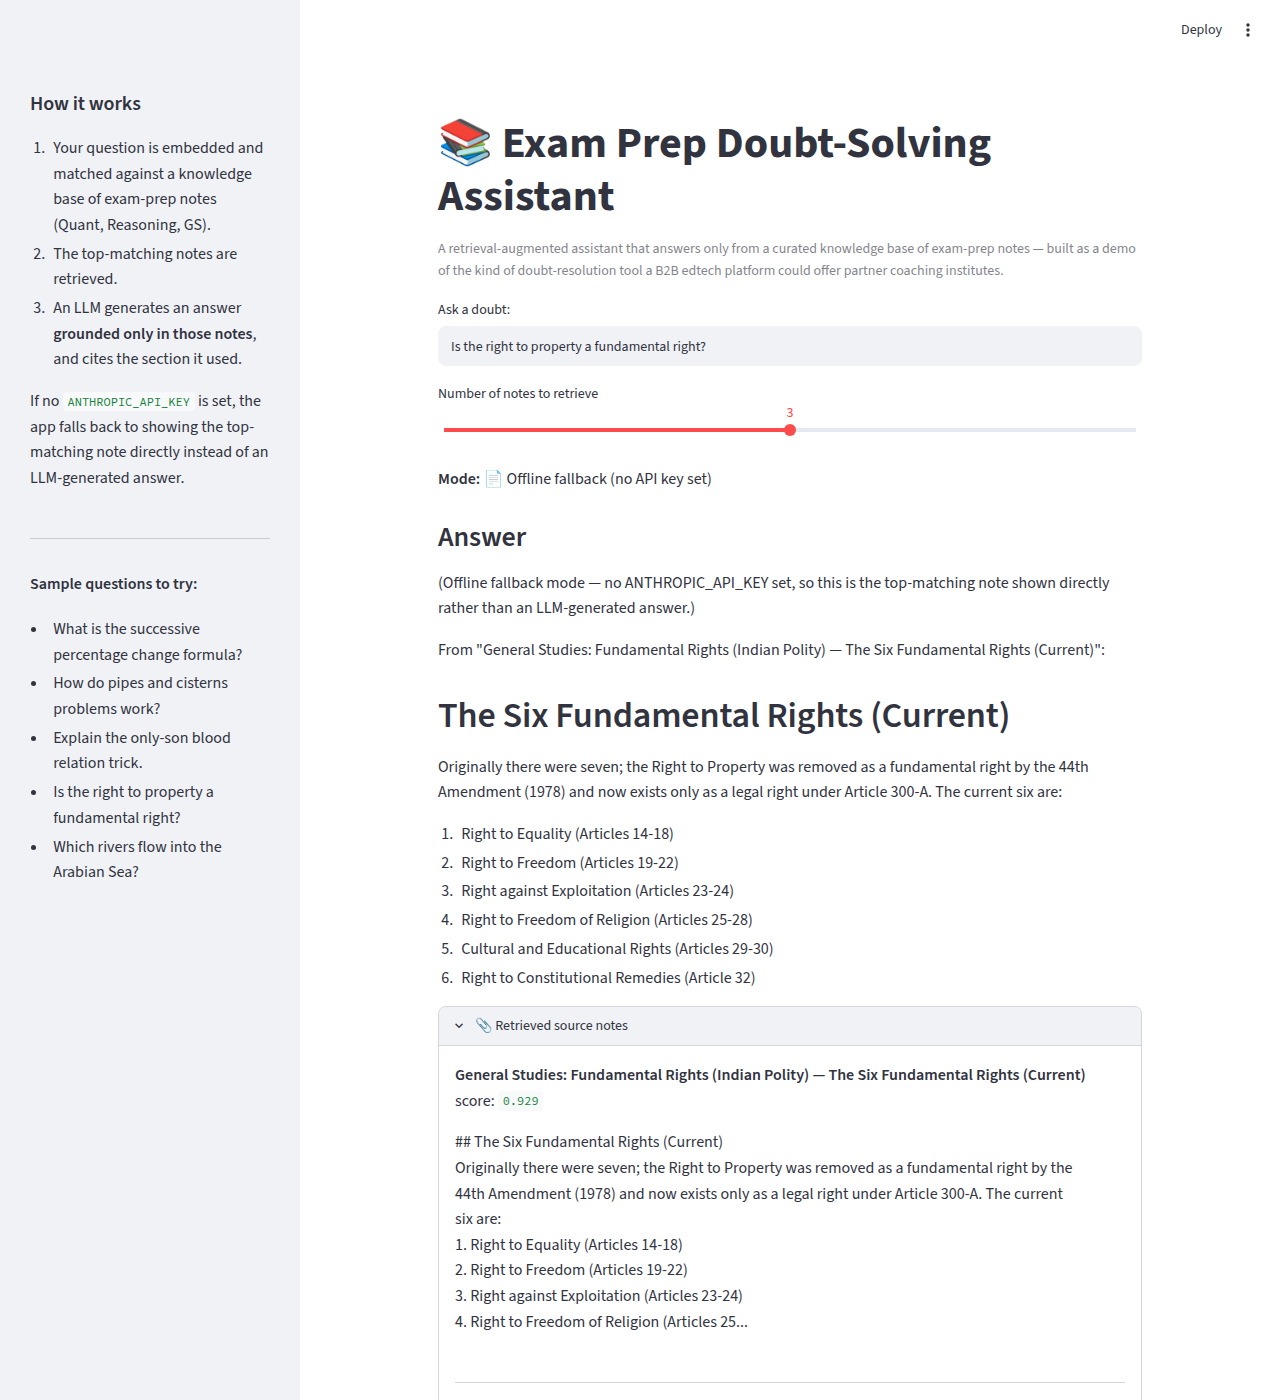
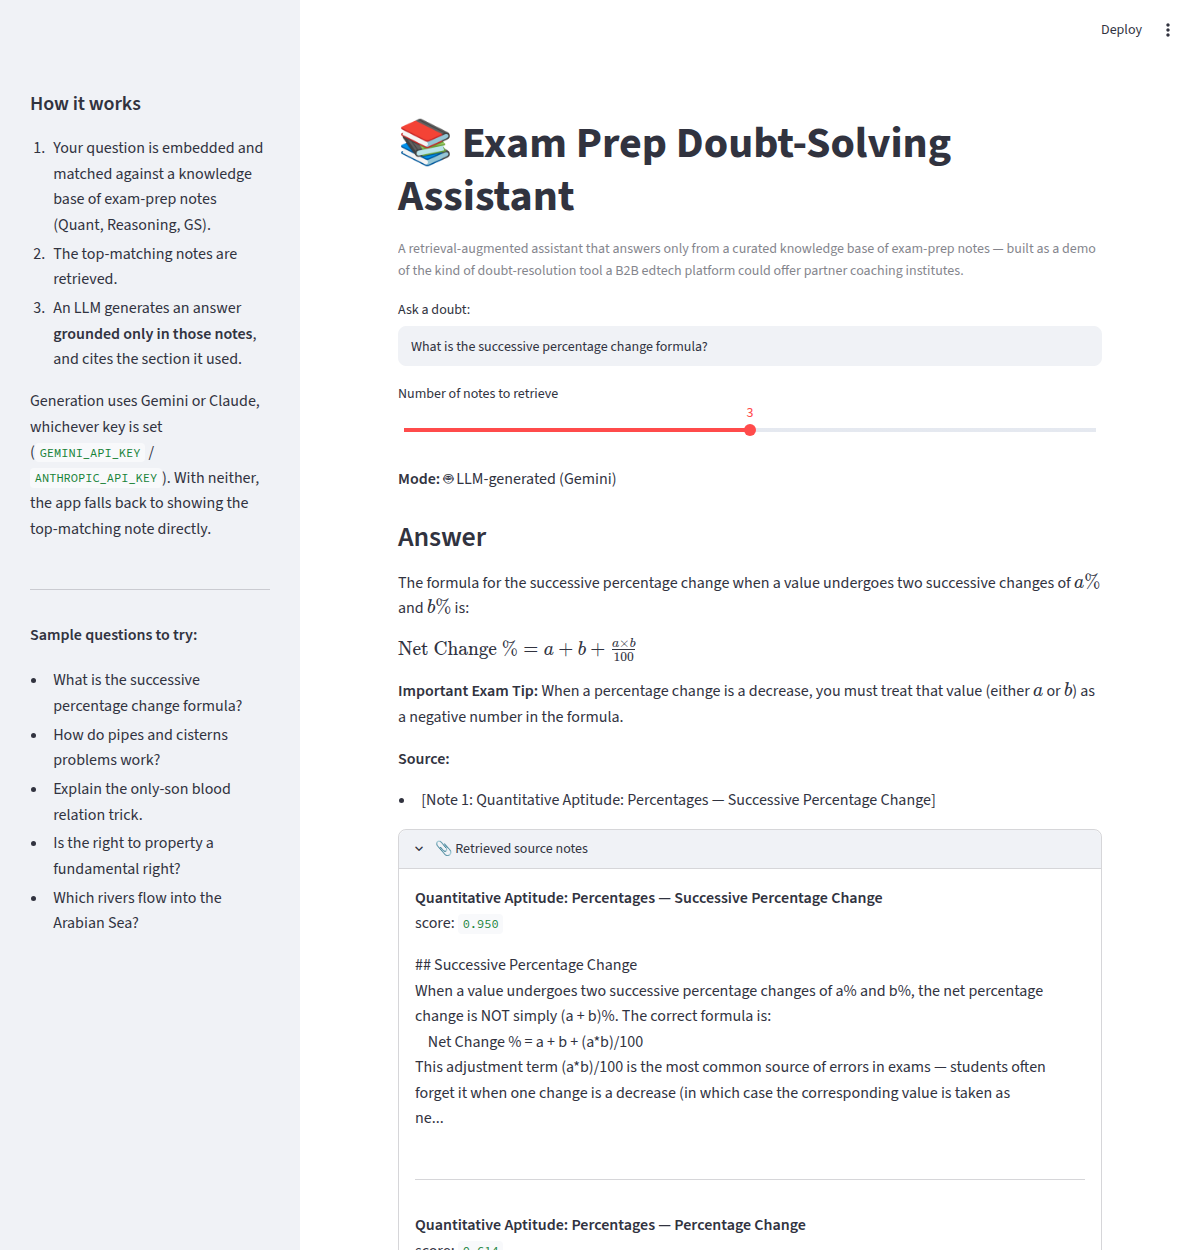
Fix truncated Gemini answers and pick a model that stays up
First run against a real key exposed two problems that no amount of
key-less testing would have found.

Answers were cut off mid-sentence. Gemini 3.x reasons before it writes and
those thinking tokens are drawn from max_output_tokens, so a budget sized for
the visible answer gets spent thinking. Measured on this workload: 434 tokens
of thinking against roughly 265 tokens of actual answer, so the old limit of
500 left about 66 for the reply. The budget is now 2048 and overridable, and
a response that still stops at the limit says so rather than presenting half
a sentence as a whole one.

The default model was unreliable. Over 5 calls each, gemini-3.8-flash
returned 503 UNAVAILABLE twice (3/5, avg 3.6s) while gemini-3.5-flash and
gemini-3.6-flash both went 5/5 (avg 5.6s and 5.9s). For a demo someone
watches live, two seconds of latency beats a two-in-five chance of dropping
into offline fallback, so the default is gemini-3.5-flash.

The generation path is now verified end to end rather than assumed. Grounded
answers carry their citations. Out-of-corpus questions still refuse before
any API call is spent. And the prompt-side refusal works on the case the
retrieval gate cannot catch: asked what percentage of India's GDP goes to
education — which matches "percentage" and so passes retrieval, but which the
notes cannot answer — the model said the notes contain no such information
and described what they do cover, instead of answering from its own
[…]

diff --git a/src/generate.py b/src/generate.py
@@ -39,8 +39,20 @@ than a long essay.
 
 # Overridable, because free-tier model availability changes over time and a
 # retired id fails as a 404 rather than degrading to something sensible.
-DEFAULT_GEMINI_MODEL = "gemini-3.8-flash"
+#
+# Not the newest model on purpose. Measured over 5 calls each: gemini-3.8-flash
+# returned 503 UNAVAILABLE twice (3/5, avg 3.6s) while gemini-3.5-flash and
+# gemini-3.6-flash were 5/5 (avg 5.6s and 5.9s). Two seconds of latency is a
+# good trade for a demo that does not drop into fallback mode while someone is
+# watching it.
+DEFAULT_GEMINI_MODEL = "gemini-3.5-flash"
 DEFAULT_CLAUDE_MODEL = "claude-sonnet-5"
+
+# Gemini 3.x spends part of this budget reasoning before it writes anything, so
+# a limit sized for the answer alone truncates it. Measured: 500 produced half
+# a sentence. Claude's budget is separate because it is not drawn down the same
+# way, and the grounding prompt keeps answers short on both.
+GEMINI_MAX_OUTPUT_TOKENS = int(os.environ.get("GEMINI_MAX_OUTPUT_TOKENS", "2048"))
 
 
 def _format_context(chunks: List[Dict]) -> str:
@@ -152,7 +164,11 @@ def _generate_with_gemini(query: str, chunks: List[Dict], api_key: str, sources:
         contents=_build_user_message(query, chunks),
         config=types.GenerateContentConfig(
             system_instruction=SYSTEM_PROMPT,
-            max_output_tokens=500,
+            # Gemini 3.x reasons before answering and those thinking tokens are
+            # drawn from this same budget, so a limit sized for the visible
+            # answer alone gets spent thinking and truncates mid-sentence. This
+            # is deliberately generous; the prompt keeps answers short.
+            max_output_tokens=GEMINI_MAX_OUTPUT_TOKENS,
         ),
     )
 
@@ -164,8 +180,20 @@ def _generate_with_gemini(query: str, chunks: List[Dict], api_key: str, sources:
     if not text:
         blocked = getattr(response.prompt_feedback, "block_reason", None)
         raise RuntimeError(f"no text returned (block_reason={blocked})")
+
+    # A truncated answer still arrives as ordinary text, so say so rather than
+    # presenting half a sentence as a complete one.
+    if _hit_token_limit(response):
+        text += "\n\n_(Answer truncated — it hit the output token limit.)_"
     return {"answer": text, "mode": "llm", "provider": "gemini",
             "refused": False, "sources": sources}
+
+
+def _hit_token_limit(response) -> bool:
+    candidates = getattr(response, "candidates", None) or []
+    if not candidates:
+        return False
+    return str(getattr(candidates[0], "finish_reason", "")).endswith("MAX_TOKENS")
 
 
 def _generate_with_claude(query: str, chunks: List[Dict], api_key: str, sources: List[str]) -> Dict:

diff --git a/README.md b/README.md
@@ -7,11 +7,11 @@ tooling a B2B edtech platform (e.g. one that supplies technology to coaching
 institutes) could offer its partner institutes to reduce repetitive-doubt
 load on faculty.
 
-![The assistant answering a question, with the retrieved source notes and their similarity scores expanded below the answer](demo.png)
+![The assistant answering a question with a Gemini-generated answer, its cited source, and the retrieved source notes with similarity scores expanded below](demo.png)
 
-*Shown in offline fallback mode (no API key set). The "Retrieved source notes"
-panel is the point: every answer can be checked against the exact notes it
-came from, and their similarity scores.*
+*The "Retrieved source notes" panel is the point: the generated answer sits
+directly above the note it came from and that note's similarity score, so
+grounding can be checked rather than taken on trust.*
 
 ## Why this project
 Coaching institutes get flooded with repetitive conceptual doubts. A grounded
@@ -58,10 +58,31 @@ A question that matches a single non-numeric term is still answered, but the
 UI names that term above the answer rather than below it, so a thin match is
 visible before the note is trusted.
 
-Refusal in LLM mode is separate and stronger: the system prompt instructs the
-model to say when the notes are insufficient. That instruction never runs
-without an API key, which is exactly why the offline path needed its own
-guard — the deployed demo runs in fallback mode by default.
+Refusal in LLM mode is separate and stronger, and it is now verified rather
+than assumed. Asked "What percentage of India's GDP is spent on education?" —
+a question that passes the retrieval gate, since it genuinely matches
+`percentage`, but that the notes cannot answer — the model replied that the
+notes contain no such information and described what they do cover, instead of
+supplying the figure from its own knowledge. That is the anti-hallucination
+claim actually working.
+
+The two layers do different jobs. The retrieval-side checks refuse before any
+API call, so an out-of-corpus question costs nothing. The prompt-side refusal
+catches what gets through: questions that retrieve plausible notes which turn
+out not to answer them.
+
+### Model choice
+
+`gemini-3.5-flash`, and deliberately not the newest. Measured over 5 calls
+each: `gemini-3.8-flash` returned `503 UNAVAILABLE` twice (3/5, avg 3.6s),
+while `gemini-3.5-flash` and `gemini-3.6-flash` were 5/5 (avg 5.6s and 5.9s).
+Two seconds of latency is worth a demo that doesn't fall back to offline mode
+while someone is watching. `GEMINI_MODEL` overrides it.
+
+One sharp edge worth knowing: Gemini 3.x reasons before answering, and those
+thinking tokens come out of `max_output_tokens`. At 500 the model spent 434
+tokens thinking and truncated its answer mid-sentence; the visible answer
+needed about 265. The budget is 2048 for that reason.
 
 ## Architecture
 
